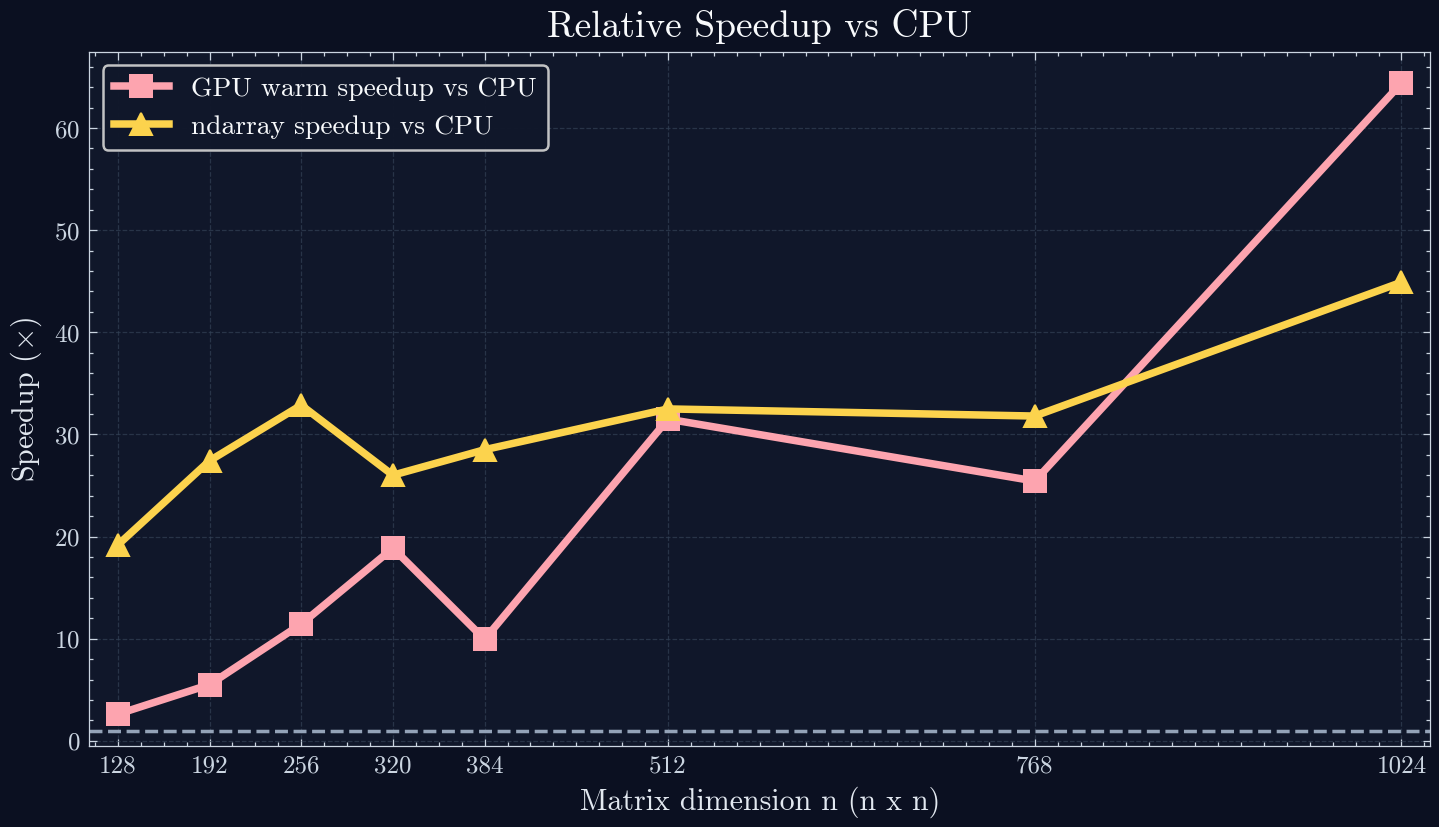
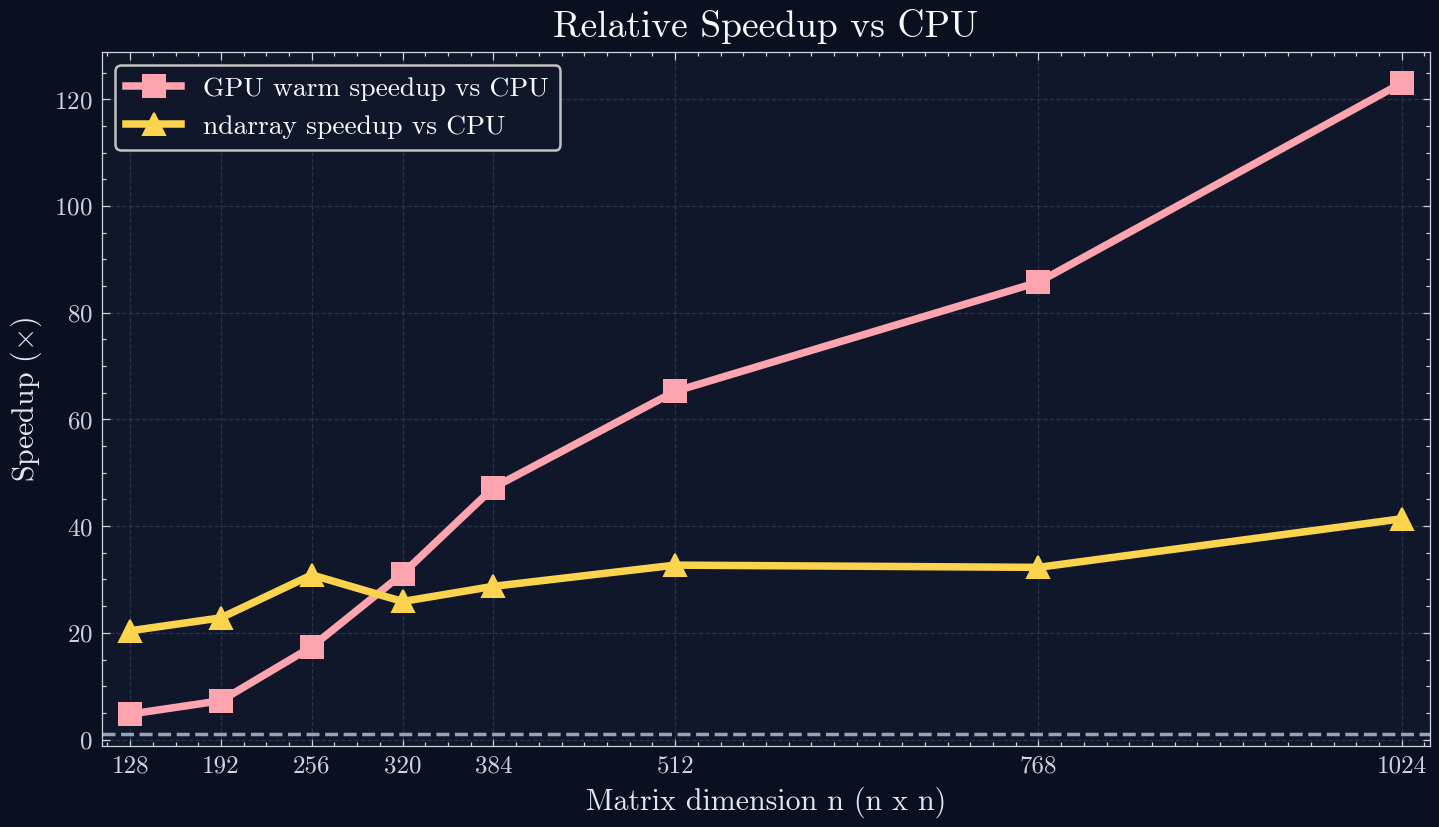
docs: update benchmark tooling and docs for feature-gated metal flow

diff --git a/scripts/generate_scaling_plots.py b/scripts/generate_scaling_plots.py
@@ -5,6 +5,7 @@ from __future__ import annotations
 import argparse
 import datetime as dt
 import json
+import os
 import re
 import shutil
 import shutil as _shutil
@@ -280,6 +281,11 @@ def main() -> None:
     parser.add_argument("--output", default="docs/benchmark-scaling.md")
     parser.add_argument("--plot-dir", default="docs/plots")
     parser.add_argument("--no-run", action="store_true")
+    parser.add_argument(
+        "--cargo-features",
+        default="",
+        help="Optional Cargo features to pass through to `cargo bench`.",
+    )
     args = parser.parse_args()
 
     criterion_root = Path(args.criterion_root)
@@ -288,7 +294,17 @@ def main() -> None:
     if not args.no_run:
         if group_dir.exists():
             shutil.rmtree(group_dir)
-        subprocess.run(["cargo", "bench", "--bench", "matrix_scaling"], check=True)
+        subprocess.run(
+            [
+                "cargo",
+                "bench",
+                *(["--features", args.cargo_features] if args.cargo_features else []),
+                "--bench",
+                "matrix_scaling",
+            ],
+            check=True,
+            env={**os.environ},
+        )
 
     if not group_dir.exists():
         raise SystemExit(f"Benchmark group not found: {group_dir}")

diff --git a/scripts/generate_benchmark_report.py b/scripts/generate_benchmark_report.py
@@ -5,6 +5,7 @@ from __future__ import annotations
 import argparse
 import datetime as dt
 import json
+import os
 import random
 import shutil
 import statistics
@@ -228,6 +229,11 @@ def main() -> None:
         action="store_true",
         help="Do not run cargo bench; only parse existing Criterion output.",
     )
+    parser.add_argument(
+        "--cargo-features",
+        default="",
+        help="Optional Cargo features to pass through to `cargo bench`.",
+    )
     args = parser.parse_args()
 
     if not args.no_run:
@@ -236,8 +242,15 @@ def main() -> None:
         if group_dir.exists():
             shutil.rmtree(group_dir)
         subprocess.run(
-            ["cargo", "bench", "--bench", "matrix_multiplication"],
+            [
+                "cargo",
+                "bench",
+                *(["--features", args.cargo_features] if args.cargo_features else []),
+                "--bench",
+                "matrix_multiplication",
+            ],
             check=True,
+            env={**os.environ},
         )
 
     criterion_root = Path(args.criterion_root)

diff --git a/docs/benchmark-scaling.md b/docs/benchmark-scaling.md
@@ -1,6 +1,6 @@
 # Matrix Scaling Benchmarks
 
-- Generated: 2026-03-15 14:36:15 UTC
+- Generated: 2026-03-15 16:05:13 UTC
 - Bench suite: `matrix_scaling`
 - Metric: Criterion mean runtime (plots show mean lines; 95% CI is in the table)
 
@@ -11,64 +11,64 @@
 
 | backend | μ ± 95% CI | σ | speedup vs cpu |
 | --- | --- | ---: | ---: |
-| cpu | 876.347 µs ± 6.867 µs | 19.539 µs | 1.000x |
-| gpu warm | 335.186 µs ± 58.260 µs | 165.778 µs | 2.615x |
-| ndarray | 45.685 µs ± 3.010 µs | 8.847 µs | 19.183x |
+| cpu | 878.863 µs ± 17.498 µs | 59.163 µs | 1.000x |
+| gpu warm | 184.240 µs ± 4.545 µs | 14.313 µs | 4.770x |
+| ndarray | 43.115 µs ± 84.307 ns | 239.767 ns | 20.384x |
 
 ## n = 192
 
 | backend | μ ± 95% CI | σ | speedup vs cpu |
 | --- | --- | ---: | ---: |
-| cpu | 3.810 ms ± 213.533 µs | 608.201 µs | 1.000x |
-| gpu warm | 691.847 µs ± 34.712 µs | 98.914 µs | 5.507x |
-| ndarray | 138.960 µs ± 1.350 µs | 3.850 µs | 27.419x |
+| cpu | 3.133 ms ± 32.306 µs | 108.109 µs | 1.000x |
+| gpu warm | 430.251 µs ± 12.135 µs | 34.643 µs | 7.281x |
+| ndarray | 137.347 µs ± 1.532 µs | 4.362 µs | 22.809x |
 
 ## n = 256
 
 | backend | μ ± 95% CI | σ | speedup vs cpu |
 | --- | --- | ---: | ---: |
-| cpu | 10.232 ms ± 507.947 µs | 1.460 ms | 1.000x |
-| gpu warm | 895.051 µs ± 50.205 µs | 158.250 µs | 11.431x |
-| ndarray | 311.320 µs ± 518.331 ns | 1.477 µs | 32.865x |
+| cpu | 9.624 ms ± 21.945 µs | 62.572 µs | 1.000x |
+| gpu warm | 553.667 µs ± 68.863 µs | 195.917 µs | 17.383x |
+| ndarray | 311.880 µs ± 627.905 ns | 1.795 µs | 30.859x |
 
 ## n = 320
 
 | backend | μ ± 95% CI | σ | speedup vs cpu |
 | --- | --- | ---: | ---: |
-| cpu | 15.771 ms ± 172.006 µs | 508.678 µs | 1.000x |
-| gpu warm | 836.209 µs ± 159.583 µs | 453.590 µs | 18.860x |
-| ndarray | 606.408 µs ± 3.428 µs | 9.990 µs | 26.008x |
+| cpu | 15.522 ms ± 36.042 µs | 102.705 µs | 1.000x |
+| gpu warm | 499.497 µs ± 38.435 µs | 113.759 µs | 31.075x |
+| ndarray | 599.959 µs ± 1.184 µs | 3.449 µs | 25.872x |
 
 ## n = 384
 
 | backend | μ ± 95% CI | σ | speedup vs cpu |
 | --- | --- | ---: | ---: |
-| cpu | 29.516 ms ± 28.019 µs | 83.369 µs | 1.000x |
-| gpu warm | 2.970 ms ± 37.254 µs | 105.711 µs | 9.938x |
-| ndarray | 1.036 ms ± 769.338 ns | 2.198 µs | 28.503x |
+| cpu | 29.563 ms ± 270.934 µs | 810.961 µs | 1.000x |
+| gpu warm | 626.201 µs ± 4.360 µs | 12.389 µs | 47.210x |
+| ndarray | 1.029 ms ± 2.347 µs | 6.732 µs | 28.716x |
 
 ## n = 512
 
 | backend | μ ± 95% CI | σ | speedup vs cpu |
 | --- | --- | ---: | ---: |
-| cpu | 79.853 ms ± 400.901 µs | 1.157 ms | 1.000x |
-| gpu warm | 2.535 ms ± 585.891 µs | 1.673 ms | 31.498x |
-| ndarray | 2.457 ms ± 17.506 µs | 50.158 µs | 32.495x |
+| cpu | 79.526 ms ± 406.056 µs | 1.164 ms | 1.000x |
+| gpu warm | 1.219 ms ± 9.491 µs | 26.772 µs | 65.255x |
+| ndarray | 2.433 ms ± 5.654 µs | 16.123 µs | 32.689x |
 
 ## n = 768
 
 | backend | μ ± 95% CI | σ | speedup vs cpu |
 | --- | --- | ---: | ---: |
-| cpu | 265.089 ms ± 1.400 ms | 4.032 ms | 1.000x |
-| gpu warm | 10.423 ms ± 804.539 µs | 2.288 ms | 25.433x |
-| ndarray | 8.337 ms ± 65.296 µs | 186.982 µs | 31.798x |
+| cpu | 264.736 ms ± 2.353 ms | 6.707 ms | 1.000x |
+| gpu warm | 3.088 ms ± 26.967 µs | 77.219 µs | 85.719x |
+| ndarray | 8.204 ms ± 50.165 µs | 144.413 µs | 32.268x |
 
 ## n = 1024
 
 | backend | μ ± 95% CI | σ | speedup vs cpu |
 | --- | --- | ---: | ---: |
-| cpu | 915.681 ms ± 31.078 ms | 88.799 ms | 1.000x |
-| gpu warm | 14.219 ms ± 1.537 ms | 4.382 ms | 64.400x |
-| ndarray | 20.394 ms ± 333.540 µs | 949.426 µs | 44.900x |
+| cpu | 838.601 ms ± 7.721 ms | 21.971 ms | 1.000x |
+| gpu warm | 6.817 ms ± 233.545 µs | 660.536 µs | 123.021x |
+| ndarray | 20.268 ms ± 151.911 µs | 430.855 µs | 41.376x |
 
 _Lower runtime is faster._

diff --git a/README.md b/README.md
@@ -6,30 +6,36 @@ Fixed-size matrices and vectors with a CPU-first API and an explicit reusable Me
 
 - Enter the dev environment with `direnv allow` (uses `.envrc` + `flake.nix`).
 - The flake provides a stable Rust toolchain (`rustc`, `cargo`, `clippy`, `rustfmt`, `rust-src`) and `just`.
-- Cargo embeds a Metal library at build time via `build.rs`.
-- If the full Metal toolchain is available through `xcrun`, the embedded library is rebuilt from `shaders/*.metal`.
-- If `metallib` is unavailable, Cargo falls back to embedding the checked-in bootstrap `shaders/shaders.metallib`.
-- `just all` and `just clean` remain optional developer convenience commands for manually rebuilding or deleting shader artifacts.
+- Default builds are CPU-only and do not require Metal tooling.
+- The `metal` feature is opt-in and macOS-only:
+  - `cargo test`
+  - `cargo test --features metal`
+- The Metal runtime compiles the checked-in shader source in [`shaders/matrix_multiplication.metal`](shaders/matrix_multiplication.metal) when `MetalRuntime::new()` runs.
+- `build.rs` only tracks shader source changes for Cargo rebuilds; there is no checked-in bootstrap `metallib` fallback.
+- `just all` and `just clean` remain optional developer convenience commands for manually producing or deleting `.air` and `.metallib` artifacts.
 
 ## Core API
 
 - `Matrix<T, M, N>::multiply(&other)` is the canonical CPU multiplication path.
 - Matrix arithmetic is shape-safe through const generics and stores entries in boxed contiguous arrays.
 - Current generic scalar support covers the built-in numeric types implemented in [`Numeric`](src/numeric.rs).
+- Row-major construction and access are explicit through `from_row_major`, `as_row_major_slice`, `row`, and `row_slice`.
+- `ndarray::Array2` interop is available for row-major conversions and CPU correctness cross-checks.
 - Unsupported linear algebra operations such as determinant and inverse return explicit `MatrixError` values.
 
 ## GPU API
 
 - GPU execution is explicit and strict through `MetalRuntime`.
 - `MetalRuntime::new()` initializes a reusable Metal device/queue/pipeline bundle.
-- `MetalRuntime::multiply(&lhs, &rhs)` performs `f32` matrix multiplication on the GPU and returns `MetalError` on any failure.
+- `MetalRuntime::multiply(&lhs, &rhs)` performs tiled `f32` matrix multiplication on the GPU and returns `MetalError` on any failure.
+- The runtime exposes `shader_kind()` and `threadgroup_shape()` for inspection.
 - There is no automatic CPU fallback in the GPU path.
 
 ## Benchmark Report
 
 - Run `just bench-report` to execute Criterion benchmarks and generate a condensed statistical Markdown table.
 - Output file: `docs/benchmark-comparison.md`.
-- The fixed-size benchmark report includes CPU, `ndarray`, warm GPU runtime, and cold init + multiply GPU timings.
+- On macOS, `just bench-report` runs the fixed-size benchmark with `--features metal`, so the report includes CPU, `ndarray`, warm GPU runtime, and cold init + multiply GPU timings.
 - The report includes mean latency with 95% CI, relative speedup vs baseline, permutation-test p-values, and Cliff's delta effect size.
 - Run `just bench-scaling-plots` to benchmark multiple matrix sizes and generate plots + Markdown summary.
 - Outputs: `docs/benchmark-scaling.md` and `docs/plots/matrix-scaling-*.png`.

diff --git a/docs/benchmark-comparison.md b/docs/benchmark-comparison.md
@@ -1,15 +1,15 @@
 # Benchmark Comparison
 
-- Generated: 2026-03-15 13:19:39 UTC
+- Generated: 2026-03-15 16:01:43 UTC
 - Criterion group: `matrix multiplication`
 - Baseline: `cpu matrix multiply`
 - Significance: permutation test on per-sample ns/op (`alpha=0.05`, `reps=20000`)
 
 | Benchmark | samples | μ ± 95% CI | σ | Speed vs baseline | p-value vs baseline | Significant | Cliff's delta |
 | --- | ---: | --- | ---: | ---: | ---: | ---: | --- |
-| cpu matrix multiply | 100 | 11.543 ms ± 436.503 µs | 2.243 ms | 1.000x | - | - | - |
-| ndarray multiply | 100 | 323.089 µs ± 4.589 µs | 24.640 µs | 35.727x | 0.0000 | yes | +1.000 (large) |
-| gpu warm matrix multiply | 100 | 865.912 µs ± 52.582 µs | 269.641 µs | 13.330x | 0.0000 | yes | +1.000 (large) |
-| gpu cold init + multiply | 100 | 1.616 ms ± 70.550 µs | 362.486 µs | 7.144x | 0.0000 | yes | +1.000 (large) |
+| cpu matrix multiply | 100 | 9.530 ms ± 104.859 µs | 560.660 µs | 1.000x | - | - | - |
+| ndarray multiply | 100 | 322.518 µs ± 3.484 µs | 18.249 µs | 29.549x | 0.0000 | yes | +1.000 (large) |
+| gpu warm matrix multiply | 100 | 419.162 µs ± 22.853 µs | 117.048 µs | 22.736x | 0.0000 | yes | +1.000 (large) |
+| gpu cold init + multiply | 100 | 1.003 ms ± 37.221 µs | 192.053 µs | 9.498x | 0.0000 | yes | +1.000 (large) |
 
 _Lower mean time is faster._

diff --git a/docs/toolchain.md b/docs/toolchain.md
@@ -3,7 +3,12 @@
 - `direnv` activates the [Nix flake shell](../flake.nix)
   - Flake provides stable Rust + tools (cargo, clippy, rustfmt, rust-analyzer)
 - Rust toolchain is also pinned via [`rust-toolchain.toml`](../rust-toolchain.toml)
-- `cargo build`, `cargo test`, and `cargo bench` embed a Metal library through [`build.rs`](../build.rs)
-  - Preferred path: compile `.metal` → `.air` and link `.air` → embedded `shaders.metallib`
-  - Bootstrap path: if `metallib` is unavailable through `xcrun`, build falls back to embedding the checked-in `shaders/shaders.metallib`
-- [`justfile`](../justfile) keeps manual shader rebuild/cleanup commands as optional developer conveniences
+- Default Cargo workflows are CPU-only and do not require Metal tooling
+  - `cargo test`
+  - `cargo check --examples`
+- Metal support is opt-in through `--features metal` and only compiled on macOS
+  - `cargo test --features metal`
+  - `cargo check --examples --features metal`
+- [`build.rs`](../build.rs) only tells Cargo to rebuild when shader source changes
+- [`src/metal.rs`](../src/metal.rs) compiles the checked-in shader source at runtime when `MetalRuntime::new()` initializes
+- [`justfile`](../justfile) keeps manual shader rebuild/cleanup commands as optional developer conveniences if you want `.air` or `.metallib` artifacts for debugging
